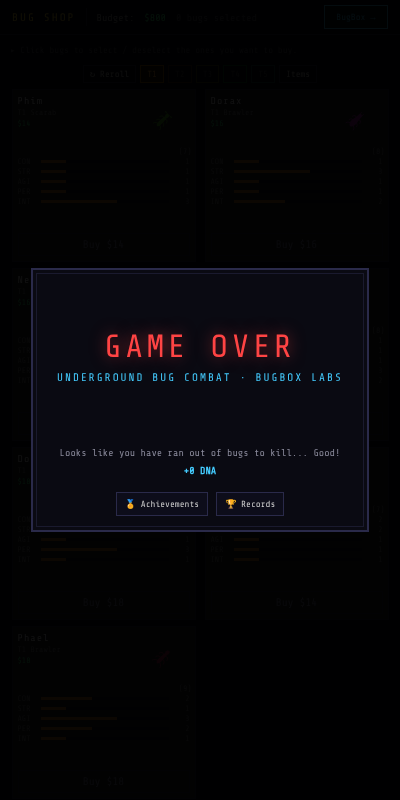
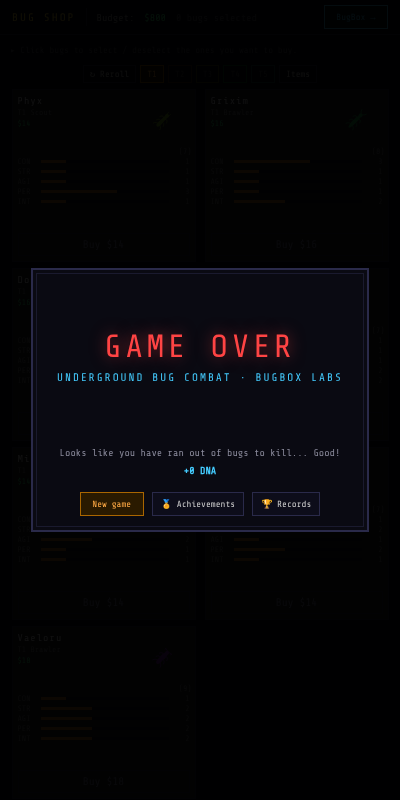
v75.15: New game button on the GAME OVER screen
- GAME OVER screen shows New game (Continue only on GAME WON)

Claude-Session: https://claude.ai/code/session_01LtnUgM1sRjHF6BV7ouKJ1C

Changed region(s): [[0.18, 0.5938, 0.78, 0.6562]]

diff --git a/records.js b/records.js
@@ -36,7 +36,7 @@ const due = tierMax - 1 + 2 * run.won + floor(ACHIEVEMENTS.filter(a => achSt.don
 run.dna = due, dna.n += d, next && (dna.bugs = bugsOwned.filter(b => tierOf(statSum(b)) < 4)), saveDna(), saveGame();
 t.textContent = next ? "GAME WON" : "GAME OVER", t.style.color = col, t.style.textShadow = `0 0 16px ${col}88`;
 $("over-body").innerHTML = (next ? `Time ${fmtT(run.ms)} \u00b7 Fights ${fightNum} \u00b7 Kills ${run.kills}<br>Best bug: ${run.bestSumName} (${run.bestSum})` : "Looks like you have ran out of bugs to kill... Good!") + `<br><b style="color:#4cf;">+${d} DNA</b>`;
-$("over-go").style.display = next ? "contents" : "none", $("bt-cont").onclick = () => (ov("ov-over", 0), next());
+$("bt-cont").style.display = next ? "" : "none", $("bt-cont").onclick = () => (ov("ov-over", 0), next());
 ov("ov-over", 1), next && confetti(spans5(t), 5)
 }
 // Legacy screen (new game, after the intro): permanent bonuses, level n costs n DNA; heirloom = 1 candidate bug of tier <= Heirloom level

diff --git a/index.html b/index.html
@@ -154,7 +154,7 @@ if(typeof window[n]==="undefined")bar().textContent+="NOT LOADED: "+n+"\n"})
 <div style="flex:1.15;"></div>
 <div class="dos-body" id="over-body" style="text-align:center;font-size:10px;color:#889;"></div>
 <div style="display:flex;flex-wrap:wrap;gap:8px;justify-content:center;margin-top:12px;">
-<span id="over-go"><button class="ok bt" id="bt-cont">Continue</button> <button class="warn bt" onclick="dropSave(),location.reload()">New game</button></span>
+<button class="ok bt" id="bt-cont">Continue</button><button class="warn bt" onclick="dropSave(),location.reload()">New game</button>
 <button class="bt" onclick="openInfoTab('ach')">🏅 Achievements</button>
 <button class="bt" onclick="openInfoTab('rec')">🏆 Records</button>
 </div>

diff --git a/core.js b/core.js
@@ -1,4 +1,4 @@
-const GAME_VERSION = "75.14";
+const GAME_VERSION = "75.15";
 const {PI,random,max,min,hypot,sin,cos,atan2,round,abs,sign,pow,floor}=Math;
 const TAU=2*PI, HALF_PI=PI/2;
 const $ = id => document.getElementById(id);
